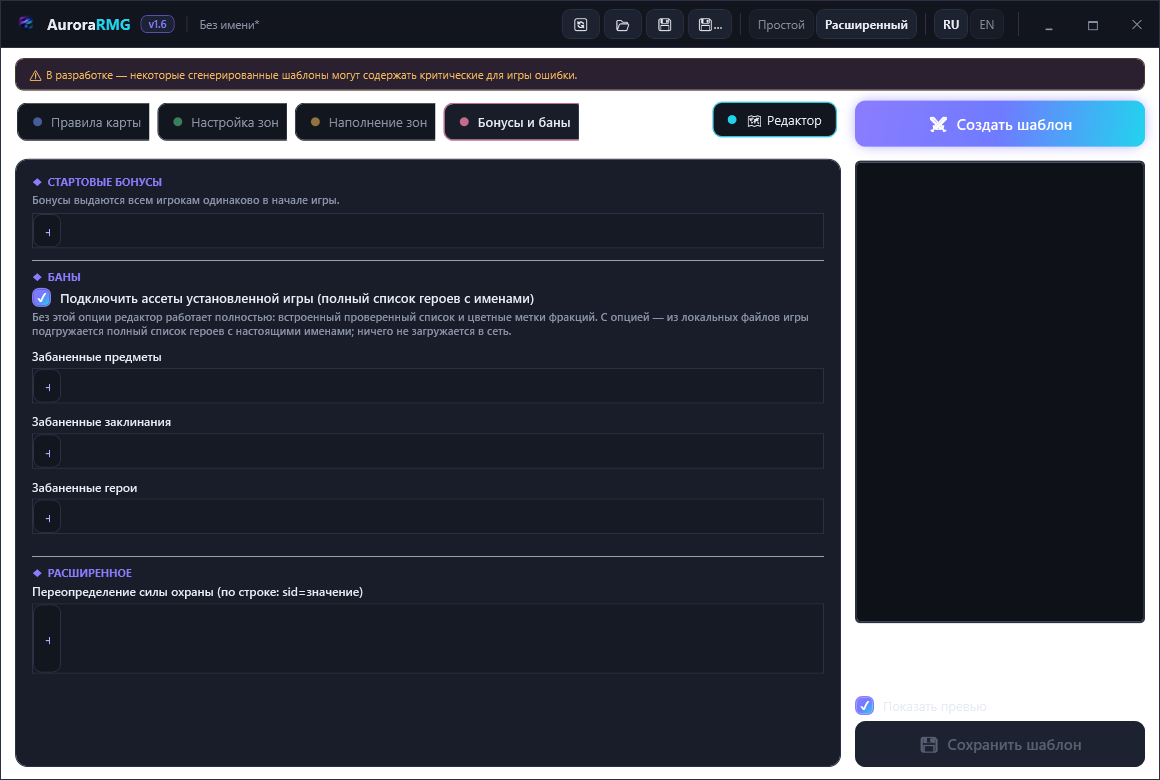
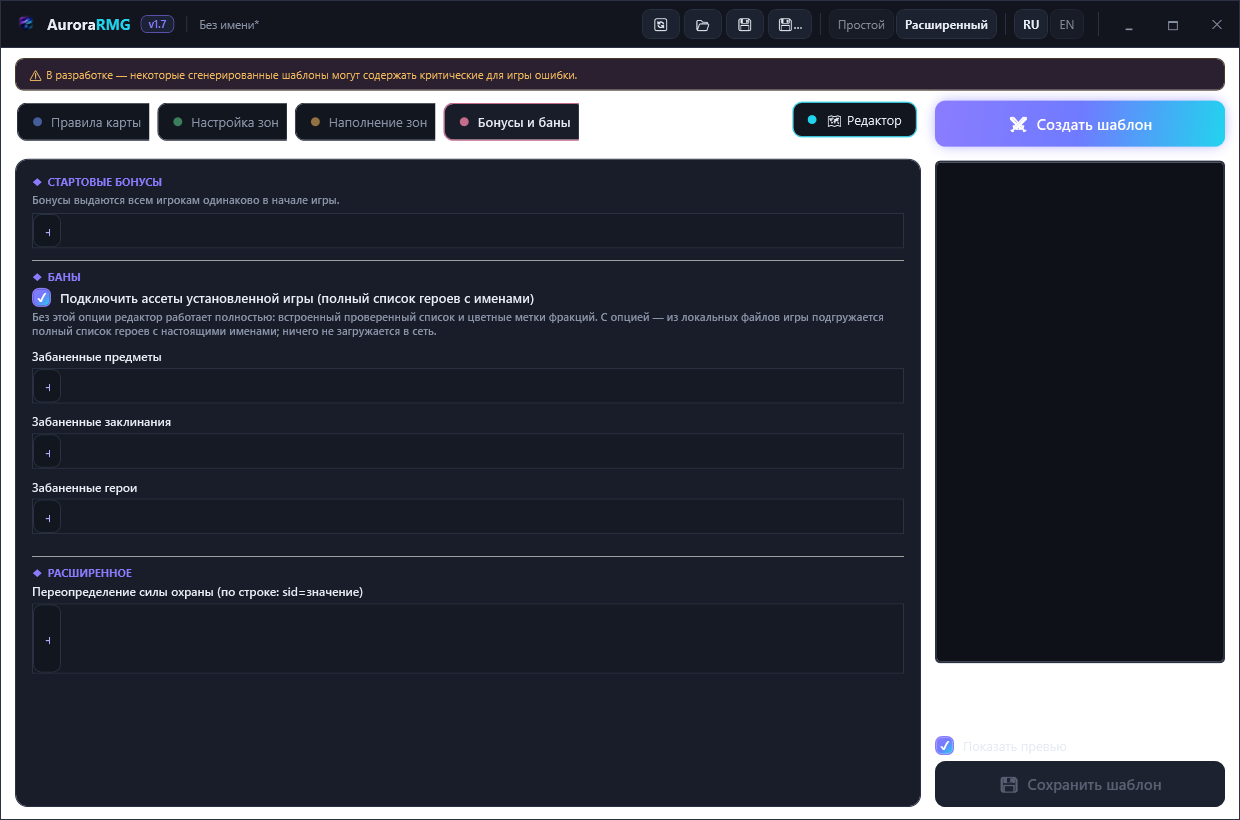
docs(v1.7.0): re-shoot all UI screenshots (RU+EN) + editor tool-window gallery
- Re-shot ui-simple/ui-simple-lanes/ui-rules/ui-map-zones/ui-extra-content/
  ui-bonuses-bans/ui-editor in both languages (header badge → v1.7, new editor toolbar)
- Added 4 new tool-window screenshots (RU+EN): ui-tool-json, ui-tool-connections,
  ui-tool-orientation, ui-tool-help — rendered via the new --shoot-tools mode
- README.md / README.en.md: gallery of the new editor tools in the Visual Zone Editor section

diff --git a/README.md b/README.md
@@ -490,6 +490,14 @@ AuroraRMG умеет обновляться сам, без ручного ска
 - **Copy/Paste зон:** `Ctrl+C` / `Ctrl+V` копируют выбранную зону (новое уникальное имя + защита от конфликта владельцев — совпадающий владелец объекта очищается).
 - Клавиши: `Del` — удалить выбранное, `Ctrl+C`/`Ctrl+V` — копировать/вставить зону, `Esc` — отмена связывания / снять выделение.
 
+**Новые инструменты редактора (v1.7):**
+
+| 📄 JSON-предпросмотр и правка | 🔗 Менеджер связей |
+|:---:|:---:|
+| <img src="https://raw.githubusercontent.com/sany86russ/AuroraRMG/main/docs/ui-tool-json.png" width="100%"/> | <img src="https://raw.githubusercontent.com/sany86russ/AuroraRMG/main/docs/ui-tool-connections.png" width="100%"/> |
+| **🧭 Ориентация и границы** | **❔ Справка редактора** |
+| <img src="https://raw.githubusercontent.com/sany86russ/AuroraRMG/main/docs/ui-tool-orientation.png" width="100%"/> | <img src="https://raw.githubusercontent.com/sany86russ/AuroraRMG/main/docs/ui-tool-help.png" width="100%"/> |
+
 **Полный ручной контроль графа** (то, что авто-генератор делает сам, здесь можно переопределить вручную):
 
 - **Какие зоны соединять, а какие — нет.** Удаляйте лишние рёбра и добавляйте свои. Например, сделайте 4 независимых «коридора» bronze→silver→gold, которые сходятся только в центре — игроки встречаются лишь в конце. **✓ Проверить** подтвердит связность.

diff --git a/README.en.md b/README.en.md
@@ -492,6 +492,14 @@ The **"🗺 Editor"** header button opens an interactive **zone-graph canvas edi
 - **Zone copy/paste:** `Ctrl+C` / `Ctrl+V` copy the selected zone (a new unique name + an owner-conflict guard — a matching object owner is cleared).
 - Keys: `Del` — delete the selection, `Ctrl+C`/`Ctrl+V` — copy/paste a zone, `Esc` — cancel connecting / clear the selection.
 
+**New editor tools (v1.7):**
+
+| 📄 JSON preview & edit | 🔗 Connection manager |
+|:---:|:---:|
+| <img src="https://raw.githubusercontent.com/sany86russ/AuroraRMG/main/docs/ui-tool-json-en.png" width="100%"/> | <img src="https://raw.githubusercontent.com/sany86russ/AuroraRMG/main/docs/ui-tool-connections-en.png" width="100%"/> |
+| **🧭 Orientation & border** | **❔ Editor help** |
+| <img src="https://raw.githubusercontent.com/sany86russ/AuroraRMG/main/docs/ui-tool-orientation-en.png" width="100%"/> | <img src="https://raw.githubusercontent.com/sany86russ/AuroraRMG/main/docs/ui-tool-help-en.png" width="100%"/> |
+
 **Full manual control of the graph** (override by hand what the auto-generator does for you):
 
 - **Which zones connect — and which don't.** Delete unwanted edges and add your own. For example, build 4 independent bronze→silver→gold "corridors" that only meet in the centre, so players clash only at the end. **✓ Validate** confirms connectivity.
